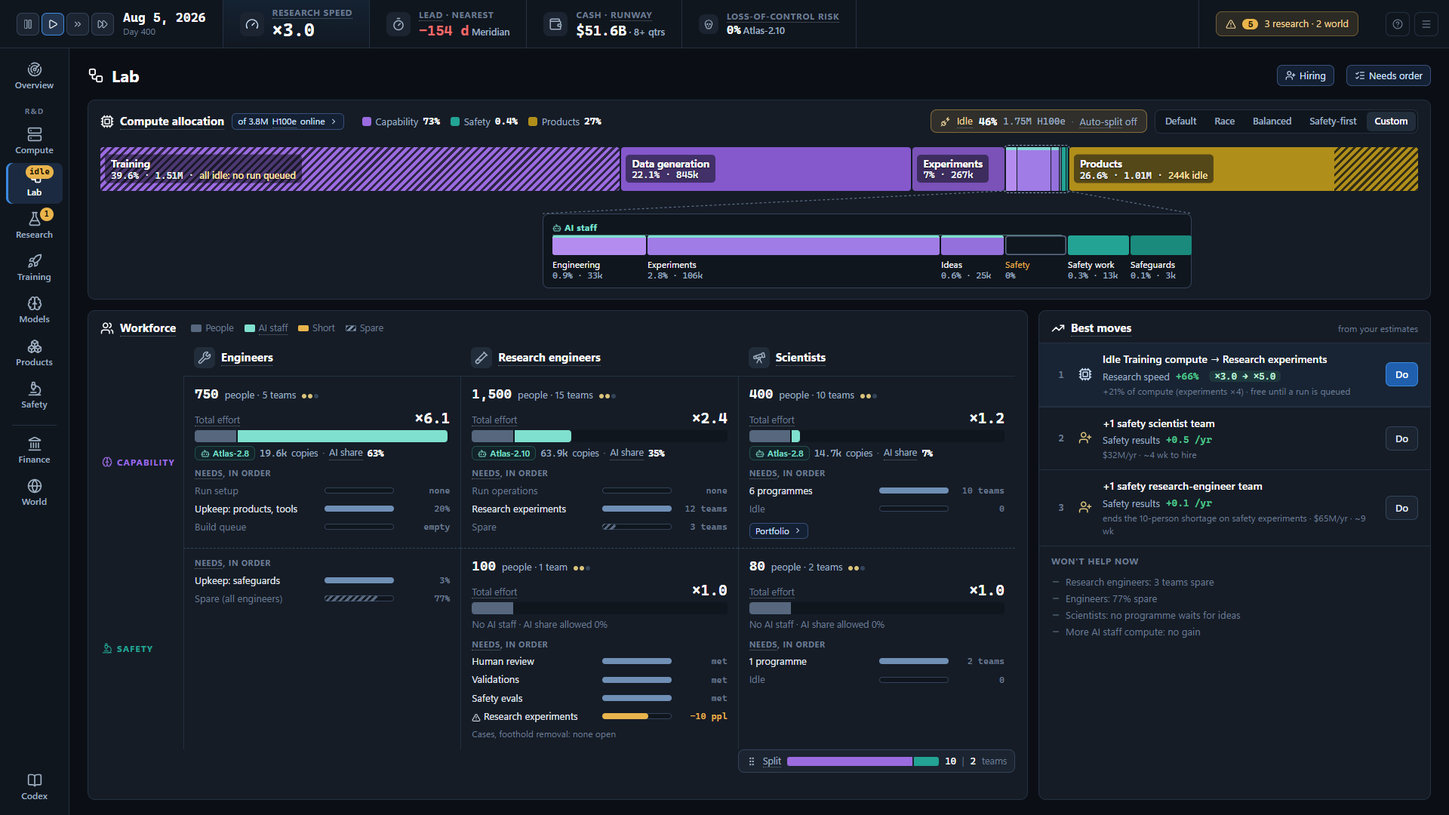
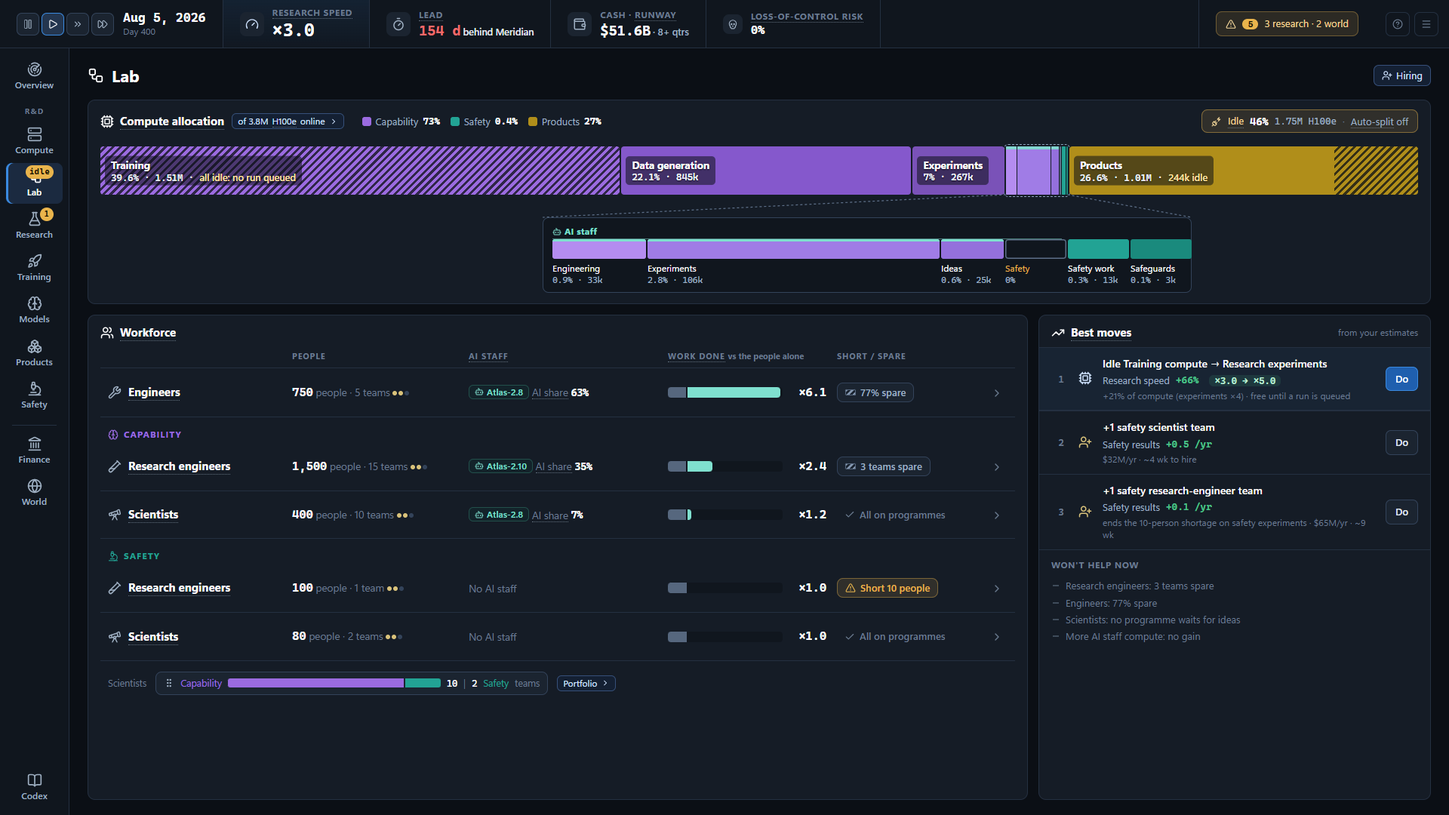
UI-MOCK: LAB and Portfolio revised (one line per role with needs on click, work done vs people alone, lead as days behind, presets dropped, effects where they land as × effective compute on the next model, plain returns phrase, VOCAB-safe programme names)

diff --git a/design/ux/mockups/rd/lab.js b/design/ux/mockups/rd/lab.js
@@ -35,7 +35,6 @@
     <h1>${ic('workflow', 's22')} Lab</h1>
     <div class="sp"></div>
     <span class="link">${ic('user-plus', 's14')} Hiring</span>
-    <span class="link">${ic('list-checks', 's14')} Needs order</span>
   </div>
 
   <div class="card alloc">
@@ -45,7 +44,6 @@
       <span class="glegend">${['cap', 'saf', 'prod'].map((g) => `<span><i style="background:${GROUP[g][1]}"></i>${GROUP[g][0]} <b class="n">${gsum[g] < 1 ? gsum[g].toFixed(1) : Math.round(gsum[g])}%</b></span>`).join('')}</span>
       <div class="sp"></div>
       <div class="idlechip">${ic('plug-zap', 's14')} <u>Idle</u> <b>${L.alloc.idlePct}%</b> <span class="n" style="color:var(--text-2)">${L.alloc.idle} H100e</span><span class="t3">·</span><span style="color:var(--text-2)"><u>Auto-split</u> ${L.alloc.autoSplit}</span></div>
-      <div class="presets">${['Default', 'Race', 'Balanced', 'Safety-first', 'Custom'].map((p) => `<span class="p ${p === L.alloc.preset ? 'on' : ''}">${p}</span>`).join('')}</div>
     </div>
     <div class="barwrap">
       <div class="bar" id="bar">${barHtml}</div>
@@ -61,12 +59,6 @@
   <div class="lower">
     <div class="card board">
       <div class="hd"><span class="ttl">${ic('users', 's18')} <u>Workforce</u></span>
-        <span class="row t3" style="font-size:12.5px;gap:14px;margin-left:10px">
-          <span class="row" style="gap:5px"><span style="width:14px;height:10px;border-radius:2px;background:var(--human)"></span>People</span>
-          <span class="row" style="gap:5px"><span style="width:14px;height:10px;border-radius:2px;background:var(--ai)"></span><u>AI staff</u></span>
-          <span class="row" style="gap:5px"><span style="width:14px;height:8px;border-radius:2px;background:var(--warn)"></span>Short</span>
-          <span class="row" style="gap:5px"><span class="sparesw"></span>Spare</span>
-        </span>
         <div class="sp"></div>
       </div>
       <div class="wgrid" id="wgrid"></div>
@@ -104,32 +96,37 @@
   ln.setAttribute('width', W); ln.setAttribute('height', y2 + 2);
   ln.innerHTML = `<path d="M${cr.left - bw.left} ${y1} L${lr.left - bw.left} ${y2} M${cr.right - bw.left} ${y1} L${lr.right - bw.left} ${y2}" stroke="#5d6f88" stroke-width="1.2" stroke-dasharray="3 3" fill="none"/>`;
 
-  // workforce grid
+  // workforce: one line per role (people · AI staff · work done · short / spare); the needs list opens on click (#needs)
   const Wk = L.work;
-  const effort = (c) => `
-    <div class="effort">
-      <div class="top2"><span><u>Total effort</u></span><b>×${c.effort}</b></div>
-      <div class="ebar"><div class="hp" style="flex:1 0 0"></div>${c.effortNum > 1 ? `<div class="ap" style="flex:${c.effortNum - 1} 0 0"></div>` : ''}<div style="flex:${Wk.maxEffort - c.effortNum} 0 0"></div></div>
-      <div class="aistaff">${c.ai ? `<span class="mchip">${ic('bot', 's12')} ${c.ai.model}</span><span class="n">${c.ai.copies}</span> copies <span class="t3">·</span> <u>AI share</u> <b class="n w">${c.ai.share}</b>` : `<span class="t3">No AI staff · ${c.aiNote}</span>`}</div>
-    </div>`;
+  const ST = Wk.status;
   const needs = (c) => `
-    <div class="needs"><div class="cap"><u>Needs</u>, in order</div>
+    <div class="needs">
     ${c.needs.map((n) => `<div class="nd ${n.short ? 'short' : ''} ${n.spare ? 'spare' : ''} ${!n.fill && !n.spare ? 'nil' : ''}"><span class="nm">${n.short ? ic('triangle-alert', 's12') + ' ' : ''}${n.name}</span><span class="gb"><i style="width:${Math.min(100, n.fill * 100)}%"></i></span><span class="st">${n.st}</span></div>`).join('')}
     ${c.quiet ? `<div class="t3" style="font-size:12px">${c.quiet}</div>` : ''}</div>`;
-  const people = (c) => `<div class="ppl"><b>${c.people}</b> people · ${c.teams} team${c.teams > 1 ? 's' : ''} ${qp(c.q)}</div>`;
-  const cell = (c, pos, cls, extra = '') => `<div class="cell ${cls}" style="${pos}">${people(c)}${effort(c)}${needs(c)}${extra}</div>`;
-  const col = (icon, name, pos) => `<div class="colh" style="${pos}"><span class="ri">${ic(icon, 's18')}</span><u>${name}</u></div>`;
+  const open = location.hash === '#needs' ? 'reSaf' : null;
+  const row = (key, icon, name, c) => {
+    const st = ST[key];
+    return `<div class="wr ${open === key ? 'open' : ''}">
+      <span class="rn">${ic(icon, 's18')}<u>${name}</u></span>
+      <span class="pp"><b class="n">${c.people}</b> <span class="t3">people · ${c.teams} team${c.teams > 1 ? 's' : ''}</span> ${qp(c.q)}</span>
+      <span class="ais">${c.ai ? `<span class="mchip">${ic('bot', 's12')} ${c.ai.model}</span> <span class="t3"><u>AI share</u></span> <b class="n w">${c.ai.share}</b>` : `<span class="t3">No AI staff</span>`}</span>
+      <span class="wd"><span class="ebar"><span class="hp" style="flex:1 0 0"></span>${c.effortNum > 1 ? `<span class="ap" style="flex:${c.effortNum - 1} 0 0"></span>` : ''}<span style="flex:${Wk.maxEffort - c.effortNum} 0 0"></span></span><b class="n">×${c.effort}</b></span>
+      <span class="stc ${st[0]}">${st[0] === 'short' ? ic('triangle-alert', 's14') : st[0] === 'spare' ? '<i class="sparesw"></i>' : ic('check', 's14')} ${st[1]}</span>
+      <span class="t3">${ic(open === key ? 'chevron-down' : 'chevron-right', 's16')}</span>
+    </div>
+    ${open === key ? `<div class="wopen"><div class="row" style="margin-bottom:8px"><span class="cap"><u>Needs</u>, in priority order</span><span class="t3" style="font-size:12px">staff go to the top first</span><div class="sp"></div><span class="link sm">${ic('list-checks', 's12')} Change order</span></div>${needs(c)}<div class="row" style="margin-top:10px;gap:8px"><span class="t3" style="font-size:12.5px">${c.aiNote}</span><span class="link sm">AI staff ${ic('chevron-right', 's12')}</span><span class="link sm">Hiring ${ic('chevron-right', 's12')}</span></div></div>` : ''}`;
+  };
+  const engAll = { ...Wk.eng, needs: [...Wk.eng.needs.slice(0, 2), Wk.engSaf.needs[0], Wk.eng.needs[2], Wk.engSaf.needs[1]] };
   document.getElementById('wgrid').innerHTML = `
-    ${col('wrench', 'Engineers', 'grid-area:1/2')}${col('test-tube-diagonal', 'Research engineers', 'grid-area:1/3')}${col('telescope', 'Scientists', 'grid-area:1/4')}
-    <div class="band" style="grid-area:2/1;color:var(--cap)"><span class="bt">${ic('brain', 's14')} Capability</span></div>
-    <div class="band" style="grid-area:3/1;color:var(--saf)"><span class="bt">${ic('microscope', 's14')} Safety</span></div>
-    ${cell(Wk.eng, 'grid-area:2/2', 'capb')}
-    <div class="cell safb" style="grid-area:3/2">${needs(Wk.engSaf)}</div>
-    ${cell(Wk.reCap, 'grid-area:2/3', 'capb')}
-    ${cell(Wk.sciCap, 'grid-area:2/4', 'capb', `<span class="link sm" style="align-self:flex-start">${Wk.sciCap.link} ${ic('chevron-right', 's12')}</span>`)}
-    ${cell(Wk.reSaf, 'grid-area:3/3', 'safb')}
-    ${cell(Wk.sciSaf, 'grid-area:3/4', 'safb')}
-    <div class="split" style="grid-area:4/4">${ic('grip-vertical', 's14')}<span><u>Split</u></span><div class="hbar"><div style="flex:${Wk.split[0]} 0 0;background:var(--cap);border-radius:3px 0 0 3px"></div><div style="flex:${Wk.split[1]} 0 0;background:var(--saf);border-radius:0 3px 3px 0"></div></div><span class="n w">${Wk.split[0]}</span><span class="t3">|</span><span class="n w">${Wk.split[1]}</span><span class="t3">teams</span></div>
+    <div class="wh"><span></span><span>People</span><span><u>AI staff</u></span><span><u>Work done</u> <span class="t3" style="text-transform:none;letter-spacing:0">vs the people alone</span></span><span>Short / spare</span><span></span></div>
+    ${row('eng', 'wrench', 'Engineers', engAll)}
+    <div class="wg" style="color:var(--cap)">${ic('brain', 's14')} Capability</div>
+    ${row('reCap', 'test-tube-diagonal', 'Research engineers', Wk.reCap)}
+    ${row('sciCap', 'telescope', 'Scientists', Wk.sciCap)}
+    <div class="wg" style="color:var(--saf)">${ic('microscope', 's14')} Safety</div>
+    ${row('reSaf', 'test-tube-diagonal', 'Research engineers', Wk.reSaf)}
+    ${row('sciSaf', 'telescope', 'Scientists', Wk.sciSaf)}
+    <div class="wfoot"><span class="t3">Scientists</span><div class="split">${ic('grip-vertical', 's14')}<span style="color:var(--cap)">Capability</span><div class="hbar"><div style="flex:${Wk.split[0]} 0 0;background:var(--cap);border-radius:3px 0 0 3px"></div><div style="flex:${Wk.split[1]} 0 0;background:var(--saf);border-radius:0 3px 3px 0"></div></div><span class="n w">${Wk.split[0]}</span><span class="t3">|</span><span class="n w">${Wk.split[1]}</span><span style="color:var(--saf)">Safety</span><span class="t3">teams</span></div><span class="link sm">Portfolio ${ic('chevron-right', 's12')}</span></div>
   `;
 
   if (location.hash === '#tip') {

diff --git a/design/ux/mockups/rd/res-data.js b/design/ux/mockups/rd/res-data.js
@@ -1,8 +1,9 @@
 // RESEARCH › Portfolio data, day-400 fixture (data400.json C.*). Provenance: DATA.md.
+// Capability effects are shown where they land: the next model's effective compute in that know-how area (× = 10^OOM).
 (function () {
   const u = (t) => `<u>${t}</u>`;
-  const eff = (v, area, lo, hi) => `<b class="n">+${v}%</b> ${u(area)} <span class="rg">(${lo}–${hi}%)</span>`;
-  const ret = (x) => `${u('returns falling')} <b>×${x}</b>`;
+  const lands = (where, x, what) => `<span class="t3">${where}</span> <b class="n">×${x}</b> ${u(what)}`;
+  const ret = (w) => `<span class="t3">results now</span> <b>~${w}</b> <span class="t3">of the first</span>`;
   const out = (w) => `<span class="olk ${w}">${w}</span>`;
   window.D.res = {
     limited: [{ cls: 'on', word: 'Limits most' }, { cls: 'mid', word: 'Spare teams' }, { cls: '', word: 'Enough' }, { cls: '', word: 'Not limiting' }],
@@ -10,17 +11,17 @@
     capSub: '10 teams · 6 programmes',
     safSub: '2 teams · 1 of 18 programmes staffed',
     cards: [
-      { side: 'cap', name: 'Scaling recipes', icon: 'layers', field: 'Pretraining', kind: 'ongoing', out: 'capability', track: 'programme', stage: 2, prog: 0.03, eta: 10, eff: eff('1.3', 'pretraining recipe', '0.7', '1.9'), odds: ret('0.75'), teams: 2, wanted: 2 },
-      { side: 'cap', name: 'Environments & rewards', icon: 'wand-sparkles', field: 'Post-training', kind: 'ongoing', out: 'capability', track: 'programme', stage: 2, prog: 0.18, eta: 8, eff: eff('0.9', 'post-training ceiling', '0.7', '1.2'), odds: ret('0.73'), teams: 3, wanted: 3 },
-      { side: 'cap', name: 'Data filtering & mixing', icon: 'layers', field: 'Pretraining', kind: 'ongoing', out: 'capability', track: 'programme', stage: 2, prog: 0.29, eta: 7, eff: eff('1.3', 'pretraining recipe', '0.7', '1.9'), odds: ret('0.72'), teams: 1, wanted: 1 },
-      { side: 'cap', name: 'Optimizer & architecture tweaks', icon: 'layers', field: 'Pretraining', kind: 'ongoing', out: 'capability', track: 'programme', stage: 1, prog: 0.54, eta: 14, eff: eff('3.7', 'pretraining recipe', '0.7', '6.7'), odds: ret('0.87'), teams: 1, wanted: 1, sel: true },
-      { side: 'cap', name: 'RL algorithms', icon: 'wand-sparkles', field: 'Post-training', kind: 'ongoing', out: 'capability', track: 'programme', stage: 2, prog: 0.72, eta: 3, eff: eff('1.6', 'post-training method', '1.2', '2.1'), odds: ret('0.51'), teams: 2, wanted: 2 },
-      { side: 'cap', name: 'Inference efficiency', icon: 'circuit-board', field: 'Systems', kind: 'ongoing', out: 'capability', track: 'programme', stage: 2, prog: 0.63, eta: 4, eff: eff('3.8', 'serving efficiency', '2.6', '5.2'), odds: ret('0.43'), teams: 1, wanted: 1 },
-      { side: 'cap', name: 'Multi-agent orchestration', icon: 'circuit-board', field: 'Systems', kind: 'one-off', out: 'capability', track: 'project', failed: `Failed in test · retry at lower odds: ${u('chance it works')} <b class="n w">24%</b>`, teams: 0, wanted: 3 },
-      { side: 'saf', name: 'Applied interp', icon: 'scan-search', field: 'Interpretability', kind: 'ongoing', out: 'see', track: 'safety', stage: 2, prog: 0.02, eta: 47, eff: `<b>new instrument</b>: Deception probe`, odds: `${u('outlook')} ${out('Mixed')}`, teams: 2, wanted: 2, lim: 'research engineers' },
-      { side: 'saf', name: 'Model organisms & evals', icon: 'list-checks', field: 'Evals & control', kind: 'ongoing', out: 'see', track: 'safety', stage: -1, prog: 0, eta: 0, eff: `<b>new instrument</b>: Auditing agents`, odds: `${u('outlook')} ${out('Promising')}`, teams: 0, wanted: 1, dim: true },
-      { side: 'saf', name: 'AI control', icon: 'list-checks', field: 'Evals & control', kind: 'ongoing', out: 'stop', track: 'safety', stage: -1, prog: 0, eta: 0, eff: `<b>new safeguard</b>: Comms lockdown`, odds: `${u('outlook')} ${out('Promising')}`, teams: 0, wanted: 1, dim: true },
-      { side: 'saf', name: 'CoT monitorability', icon: 'list-checks', field: 'Evals & control', kind: 'ongoing', out: 'see', track: 'safety', stage: -1, prog: 0, eta: 0, eff: `<b>new instrument</b>: Monitorability suite`, odds: `${u('outlook')} ${out('Promising')}`, teams: 0, wanted: 1, dim: true },
+      { side: 'cap', name: 'Scaling recipes', icon: 'layers', field: 'Pretraining', kind: 'ongoing', out: 'capability', track: 'programme', stage: 2, prog: 0.03, eta: 10, eff: lands('next base model', '1.013', 'pretraining compute'), odds: '', ret: ret('¾'), teams: 2, wanted: 2 },
+      { side: 'cap', name: 'Environments & rewards', icon: 'wand-sparkles', field: 'Post-training', kind: 'ongoing', out: 'capability', track: 'programme', stage: 2, prog: 0.18, eta: 8, eff: lands('next post-training', '1.009', 'post-training ceiling'), odds: '', ret: ret('¾'), teams: 3, wanted: 3 },
+      { side: 'cap', name: 'Data filtering & mixing', icon: 'layers', field: 'Pretraining', kind: 'ongoing', out: 'capability', track: 'programme', stage: 2, prog: 0.29, eta: 7, eff: lands('next base model', '1.013', 'pretraining compute'), odds: '', ret: ret('¾'), teams: 1, wanted: 1 },
+      { side: 'cap', name: 'Optimizer & architecture tweaks', icon: 'layers', field: 'Pretraining', kind: 'ongoing', out: 'capability', track: 'programme', stage: 1, prog: 0.54, eta: 14, eff: lands('next base model', '1.037', 'pretraining compute'), odds: '', ret: ret('⅞'), teams: 1, wanted: 1, sel: true },
+      { side: 'cap', name: 'Post-training algorithms', icon: 'wand-sparkles', field: 'Post-training', kind: 'ongoing', out: 'capability', track: 'programme', stage: 2, prog: 0.72, eta: 3, eff: lands('next post-training', '1.016', 'post-training compute'), odds: '', ret: ret('½'), teams: 2, wanted: 2 },
+      { side: 'cap', name: 'Faster serving', icon: 'circuit-board', field: 'Systems', kind: 'ongoing', out: 'capability', track: 'programme', stage: 2, prog: 0.63, eta: 4, eff: lands('serving', '1.038', 'work per chip'), odds: '', ret: ret('⅖'), teams: 1, wanted: 1 },
+      { side: 'cap', name: 'Coordinating many copies', icon: 'circuit-board', field: 'Systems', kind: 'one-off', out: 'capability', track: 'project', failed: `Failed in test · retry at lower odds: ${u('chance it works')} <b class="n w">24%</b>`, teams: 0, wanted: 3 },
+      { side: 'saf', name: 'Applied interpretability', icon: 'scan-search', field: 'Interpretability', kind: 'ongoing', out: 'see', track: 'safety', stage: 2, prog: 0.02, eta: 47, eff: `<span class="t3">new</span> ${u('instrument')}: <b>Deception probe</b>`, odds: `${u('outlook')} ${out('Mixed')}`, teams: 2, wanted: 2, lim: 'research engineers' },
+      { side: 'saf', name: 'Model organisms & evals', icon: 'list-checks', field: 'Evals & control', kind: 'ongoing', out: 'see', track: 'safety', stage: -1, prog: 0, eta: 0, eff: `<span class="t3">new</span> ${u('instrument')}: <b>AI auditors</b>`, odds: `${u('outlook')} ${out('Promising')}`, teams: 0, wanted: 1, dim: true },
+      { side: 'saf', name: 'Control protocols', icon: 'list-checks', field: 'Evals & control', kind: 'ongoing', out: 'stop', track: 'safety', stage: -1, prog: 0, eta: 0, eff: `<span class="t3">new</span> ${u('safeguard')}: <b>Comms lockdown</b>`, odds: `${u('outlook')} ${out('Promising')}`, teams: 0, wanted: 1, dim: true },
+      { side: 'saf', name: 'Readable reasoning', icon: 'list-checks', field: 'Evals & control', kind: 'ongoing', out: 'see', track: 'safety', stage: -1, prog: 0, eta: 0, eff: `<span class="t3">new</span> ${u('instrument')}: <b>Reasoning-readability evals</b>`, odds: `${u('outlook')} ${out('Promising')}`, teams: 0, wanted: 1, dim: true },
     ],
     safMore: { n: 14, mixed: 8, struggling: 6 },
   };

diff --git a/design/ux/mockups/rd/drawer.js b/design/ux/mockups/rd/drawer.js
@@ -5,17 +5,17 @@
   const X = (v) => 16 + (v / 8) * 560;
   const rangeSvg = `<svg width="600" height="58" style="display:block;margin-top:2px">
     <line x1="16" y1="26" x2="576" y2="26" stroke="#33435a" stroke-width="2"/>
-    ${[0, 2, 4, 6, 8].map((t) => `<line x1="${X(t)}" y1="22" x2="${X(t)}" y2="30" stroke="#4a5b72"/><text x="${X(t)}" y="48" fill="#6b7c91" font-size="11.5" font-family="Cascadia Mono, Consolas, monospace" text-anchor="middle">${t}%</text>`).join('')}
+    ${[0, 2, 4, 6, 8].map((t) => `<line x1="${X(t)}" y1="22" x2="${X(t)}" y2="30" stroke="#4a5b72"/><text x="${X(t)}" y="48" fill="#6b7c91" font-size="11.5" font-family="Cascadia Mono, Consolas, monospace" text-anchor="middle">×${(1 + t / 100).toFixed(2)}</text>`).join('')}
     <rect x="${X(0.69)}" y="17" width="${X(6.66) - X(0.69)}" height="18" rx="5" fill="rgba(155,107,224,.28)" stroke="#9b6be0"/>
     <line x1="${X(3.7)}" y1="11" x2="${X(3.7)}" y2="41" stroke="#fff" stroke-width="2.5"/>
-    <text x="${X(3.7) + 7}" y="12" fill="#fff" font-size="12.5" font-weight="650" font-family="Segoe UI, sans-serif">+3.7% best guess</text>
+    <text x="${X(3.7) + 7}" y="12" fill="#fff" font-size="12.5" font-weight="650" font-family="Segoe UI, sans-serif">×1.037 best guess</text>
     <text x="${X(0.69)}" y="12" fill="#9fb0c3" font-size="11.5" font-family="Segoe UI, sans-serif">likely</text>
   </svg>`;
-  const results = `<svg width="230" height="70" style="display:block">
+  const results = `<svg width="270" height="70" style="display:block">
     <rect x="0" y="10" width="56" height="44" rx="3" fill="#9b6be0"/><text x="28" y="66" fill="#9fb0c3" font-size="11" text-anchor="middle" font-family="Segoe UI, sans-serif">first</text>
     <rect x="72" y="${10 + 44 * 0.13}" width="56" height="${44 * 0.87}" rx="3" fill="#7a52b8"/><text x="100" y="66" fill="#9fb0c3" font-size="11" text-anchor="middle" font-family="Segoe UI, sans-serif">next</text>
-    <text x="146" y="30" fill="#fff" font-size="15" font-weight="650" font-family="Cascadia Mono, Consolas, monospace">×0.87</text>
-    <text x="146" y="48" fill="#9fb0c3" font-size="11.5" font-family="Segoe UI, sans-serif">of the first</text>
+    <text x="146" y="30" fill="#fff" font-size="18" font-weight="650" font-family="Segoe UI, sans-serif">~⅞</text>
+    <text x="146" y="48" fill="#9fb0c3" font-size="11.5" font-family="Segoe UI, sans-serif">the size of the first</text>
   </svg>`;
   window.D.res.drawer = `
     <div class="row" style="gap:10px">
@@ -38,7 +38,7 @@
       <div class="cap">The idea under test</div>
       <div style="font-size:14.5px;color:#fff">A mid-sized change to the training recipe. It looks good in small tests but has not been tried at scale, and may shrink there.</div>
       <div class="kv" style="margin-top:2px">
-        <span class="k"><u>Expected effect</u></span><span><b class="n w">+3.7%</b> <u>pretraining recipe</u> <span class="t3 n">(0.7–6.7%)</span> · fairly unsure</span>
+        <span class="k"><u>Expected effect</u></span><span>next base model <b class="n w">×1.037</b> <u>pretraining compute</u> <span class="t3 n">(×1.007–×1.067)</span> · fairly unsure</span>
       </div>
       ${rangeSvg}
       <div class="kv">
@@ -52,7 +52,7 @@
       <div class="row" style="gap:22px;align-items:center">
         ${results}
         <div class="kv" style="grid-template-columns:130px 1fr;flex:1">
-          <span class="k">Built in</span><span><b class="n w">4</b> results · <b class="n w">+13%</b> pretraining recipe</span>
+          <span class="k">Built in</span><span><b class="n w">4</b> results · <b class="n w">×1.13</b> pretraining compute</span>
           <span class="k">Dropped</span><span><b class="n w">4</b> ideas</span>
           <span class="k">In this test</span><span><b class="n w">3</b> ideas</span>
         </div>

diff --git a/design/ux/mockups/rd/lab.html b/design/ux/mockups/rd/lab.html
@@ -75,7 +75,7 @@
 .mv .cost { font-size: 12px; color: var(--text-3); margin-top: 2px; }
 .mv.top { background: rgba(58,138,224,.07); }
 
-.bar { height: 58px; }
+.bar { height: 64px; }
 .bar .s .lbl2 { position: absolute; left: 10px; top: 50%; transform: translateY(-50%); display: flex; flex-direction: column; line-height: 1.25; white-space: nowrap; pointer-events: none; text-shadow: 0 1px 2px rgba(0,0,0,.7); }
 .bar .s .lbl2 b { color: #fff; font-size: 13.5px; font-weight: 650; }
 .bar .s .lbl2 span { color: #eef2f8; font: 600 12.5px var(--mono); }
@@ -106,12 +106,34 @@
 .lgrp { height: 18px; font-size: 11.5px; font-weight: 650; color: var(--ai); letter-spacing: .04em; }
 .lgrp div { border-bottom: 1.5px solid rgba(127,224,207,.5); padding-bottom: 1px; margin-bottom: 4px; display: flex; gap: 4px; align-items: center; }
 .mv .eff .pre { margin-left: 6px; padding: 0 7px; border-radius: 6px; background: rgba(76,195,138,.12); font: 600 12.5px var(--mono); color: #bff0d6; }
-.nd { grid-template-columns: minmax(0,1fr) 92px 66px !important; }
+.nd { grid-template-columns: minmax(0,1fr) 120px 80px !important; }
 .wont { margin-top: 0 !important; }
 .moves .fill { flex: 1; }
 .bar .s .lbl2 { background: rgba(11,15,21,.55); padding: 3px 8px; border-radius: 5px; left: 6px; }
 .mchip2 { font-size: 11.5px; color: var(--ai); margin-left: 4px; }
 .tip .brk > span:nth-child(odd) { display: flex; align-items: center; gap: 6px; }
+/* workforce rows (rev 2) */
+.wgrid { display: flex !important; flex-direction: column; margin: 8px 16px 14px !important; gap: 0; }
+.wh, .wr { display: grid; grid-template-columns: 230px 220px 250px minmax(0,1fr) 190px 22px; gap: 14px; align-items: center; }
+.wh { font-size: 11px; font-weight: 650; letter-spacing: .08em; text-transform: uppercase; color: var(--text-3); padding: 4px 10px 8px; border-bottom: 1px solid var(--line); }
+.wr { padding: 19px 10px; border-bottom: 1px solid var(--line); font-size: 13.5px; }
+.wr.open { background: rgba(58,138,224,.08); border: 1px solid var(--you); border-bottom: 0; border-radius: 8px 8px 0 0; }
+.wr .rn { display: flex; align-items: center; gap: 9px; font-size: 15px; font-weight: 650; color: #fff; }
+.wr .rn svg { color: var(--text-2); }
+.wr .pp b { font-size: 16px; color: #fff; }
+.wr .wd { display: flex; align-items: center; gap: 10px; }
+.wr .wd .ebar { flex: 1; height: 14px; display: flex; }
+.wr .wd b { font-size: 16px; color: #fff; width: 48px; text-align: right; }
+.stc { display: inline-flex; align-items: center; gap: 6px; padding: 3px 10px; border-radius: 8px; font-size: 13px; font-weight: 600; justify-self: start; white-space: nowrap; }
+.stc.short { color: var(--warn); background: var(--warn-bg); border: 1px solid rgba(233,180,76,.4); }
+.stc.spare { color: var(--text-2); background: var(--panel-2); border: 1px solid var(--line-2); }
+.stc.ok { color: var(--text-3); }
+.stc .sparesw { display: inline-block; }
+.wg { display: flex; align-items: center; gap: 7px; font-size: 12px; font-weight: 700; letter-spacing: .08em; text-transform: uppercase; padding: 14px 10px 2px; }
+.wopen { border: 1px solid var(--you); border-top: 1px dashed #36507a; border-radius: 0 0 8px 8px; background: rgba(58,138,224,.05); padding: 12px 16px 14px 48px; margin-bottom: 4px; }
+.wopen .needs { max-width: 620px; }
+.wfoot { display: flex; align-items: center; gap: 12px; padding: 14px 10px 0; font-size: 12.5px; }
+.wfoot .split { width: 520px; }
 </style></head>
 <body data-tab="lab">
 <!--ICONS-->

diff --git a/design/ux/mockups/rd/data.js b/design/ux/mockups/rd/data.js
@@ -1,7 +1,7 @@
 // Day-400 RefBot fixture (scripts/v2/fixtures/day400.json), read by _data.ts → data400.json. Provenance: DATA.md.
 window.SHELL = {
   date: 'Aug 5, 2026', day: 400, speed: '3.0',
-  lead: '−154 d', leadColor: 'var(--bad)', rival: 'Meridian', cash: '$51.6B', runway: '8+ qtrs', loc: '0%', locModel: 'Atlas-2.10',
+  lead: '154 d', leadWord: 'behind', leadColor: 'var(--bad)', rival: 'Meridian', cash: '$51.6B', runway: '8+ qtrs', loc: '0%', locModel: '',
   alertCount: 5, alertText: '3 research · 2 world',
   badges: { lab: ['idle', 'warn'], research: ['1', 'warn'], training: null, safety: null },
 };
@@ -32,10 +32,14 @@ window.D = {
       sciCap: { people: 400, teams: 10, q: 2, effort: '1.2', effortNum: 1.19, ai: { model: 'Atlas-2.8', copies: '14.7k', share: '7%' },
         needs: [{ name: '6 programmes', fill: 1, st: '10 teams' }, { name: 'Idle', fill: 0, st: '0', spare: true }], link: 'Portfolio' },
       reSaf: { people: 100, teams: 1, q: 2, effort: '1.0', effortNum: 1, ai: null, aiNote: 'AI share allowed 0%',
-        needs: [{ name: 'Human review', fill: 1, st: 'met' }, { name: 'Validations', fill: 1, st: 'met' }, { name: 'Safety evals', fill: 1, st: 'met' }, { name: 'Research experiments', fill: 0.67, st: '−10 ppl', short: true }], quiet: 'Cases, foothold removal: none open' },
+        needs: [{ name: 'Human review', fill: 1, st: '19 people' }, { name: 'Validations', fill: 1, st: '40 people' }, { name: 'Safety evals', fill: 1, st: '20 people' }, { name: 'Research experiments', fill: 0.67, st: '21 of 31', short: true }], quiet: 'Cases, foothold removal: none open' },
       sciSaf: { people: 80, teams: 2, q: 2, effort: '1.0', effortNum: 1, ai: null, aiNote: 'AI share allowed 0%',
         needs: [{ name: '1 programme', fill: 1, st: '2 teams' }, { name: 'Idle', fill: 0, st: '0', spare: true }] },
       split: [10, 2],
+      status: {
+        eng: ['spare', '77% spare'], reCap: ['spare', '3 teams spare'], sciCap: ['ok', 'All on programmes'],
+        reSaf: ['short', 'Short 10 people'], sciSaf: ['ok', 'All on programmes'],
+      },
     },
     moves: [
       { kind: 'compute', what: 'Idle Training compute → Research experiments', target: 'Research speed', eff: '+66%', pre: '×3.0 → ×5.0', w: 1, cost: '+21% of compute (experiments ×4) · free until a run is queued' },

diff --git a/design/ux/mockups/rd/tip.js b/design/ux/mockups/rd/tip.js
@@ -14,10 +14,10 @@
       <div class="def">How fast your lab turns compute and people into research results, against the leading lab in Jul 2025.</div>
       <div class="cap" style="margin-bottom:5px">What it runs on</div>
       <div class="brk">
-        <span>${ic('cpu', 's14')} <u>Research compute</u></span><span class="n">398k H100e</span>
+        <span>${ic('cpu', 's14')} <u>Compute on research</u></span><span class="n">398k H100e</span>
         <span class="t3" style="padding-left:22px">Experiments 267k · AI staff 131k</span><span></span>
-        <span>${ic('test-tube-diagonal', 's14')} Research engineers <span class="t3">15 teams</span></span><span class="n">×2.4 with AI</span>
-        <span>${ic('telescope', 's14')} Scientists <span class="t3">10 teams</span></span><span class="n">×1.2 with AI</span>
+        <span>${ic('test-tube-diagonal', 's14')} Research engineers <span class="t3">15 teams</span></span><span class="n">work ×2.4</span>
+        <span>${ic('telescope', 's14')} Scientists <span class="t3">10 teams</span></span><span class="n">work ×1.2</span>
       </div>
       <div class="cap" style="margin:11px 0 5px">AI staff's part</div>
       <div class="row" style="gap:14px;align-items:flex-end">

diff --git a/design/ux/mockups/rd/portfolio.js b/design/ux/mockups/rd/portfolio.js
@@ -19,6 +19,7 @@
         ${c.out !== 'capability' ? `<span class="otag ${c.out}">${c.out}</span>` : ''}
         <span class="fld">${c.field}</span>
         <div class="sp"></div>
+        ${c.ret ? `<span class="retp">${c.ret}</span>` : ''}
         ${c.lim ? `<span class="plim">${ic('triangle-alert', 's12')} limited by ${c.lim}</span>` : ''}
         <span class="teams">${c.teams ? pips(c.teams, c.wanted) + ` ${c.teams} team${c.teams > 1 ? 's' : ''}` : `${pips(0, c.wanted || 1)} <span class="${c.dim ? 'warn' : ''}">no team</span>`}</span>
       </div>

diff --git a/design/ux/mockups/rd/shell.js b/design/ux/mockups/rd/shell.js
@@ -21,7 +21,7 @@
     </div>
     <div class="stat">
       <div class="ic">${ic('timer', 's18')}</div>
-      <div><div class="l"><u>Lead</u> · nearest</div><div class="v" style="color:${S.leadColor}">${S.lead}<span class="u">${S.rival}</span></div></div>
+      <div><div class="l"><u>Lead</u></div><div class="v" style="color:${S.leadColor}">${S.lead}<span class="u" style="color:var(--text)">${S.leadWord} ${S.rival}</span></div></div>
     </div>
     <div class="stat">
       <div class="ic">${ic('wallet', 's18')}</div>

diff --git a/design/ux/mockups/rd/portfolio.html b/design/ux/mockups/rd/portfolio.html
@@ -86,6 +86,8 @@
 .seg3 span.on { background: var(--panel-3); color: #fff; }
 .idea { display: grid; grid-template-columns: minmax(0,1fr) 170px 80px 70px; gap: 10px; align-items: center; font-size: 13px; padding: 5px 0; border-top: 1px solid var(--line); }
 .idea:first-of-type { border-top: 0; }
+.retp { font-size: 12.5px; margin-right: 10px; } .retp b { color: #fff; }
+.odds b { font-family: var(--sans); }
 </style></head>
 <body data-tab="research">
 <!--ICONS-->

diff --git a/design/ux/mockups/rd/DATA.md b/design/ux/mockups/rd/DATA.md
@@ -94,3 +94,26 @@ Either the formula floors it or it is a bug. The UI-IA "Unknown" rule (range > 3
   - ⅙ of experiment compute (44k H100e): equal `flopDay` across the six programmes. A per-programme compute readout is **NEW** (today it is derived).
 - Idea choice Balanced: the lab-wide risk policy. A per-programme choice is **NEW** (UI-IA L2).
 - Takes effect "new base model": the know-how area (pretraining recipe).
+
+## Revision 2 (designer feedback)
+
+- **L0:** Lead reads "154 d behind Meridian" (same `nearestRival` value). Loss-of-control risk shows 0% with no model name.
+- **LAB:**
+  - The allocation presets are dropped.
+  - Workforce is one line per role: people · AI staff · work done (the same `multiplier` as before) · short / spare.
+  - Short / spare comes from the needs views above: engineers spare 23.3 of 30.3 = 77%; capability research engineers 3 teams idle; safety research engineers short 10.25 people on research experiments.
+  - The needs list opens on click (`lab-needs.png`). It shows staff used per need: 19 · 40 · 20 · 21 of 31 people (`safReAllocView`).
+- **Portfolio, capability cards:** the effect is shown where it lands, as × effective compute on the next model in that area: × = 10^`belief.mu`. Scaling 0.006 → ×1.013 (it reads ×1.014 at full precision); env 0.004 → ×1.009; opt 0.016 → ×1.037; post-training method 0.007 → ×1.016; serving 0.016 → ×1.038 work per chip. The range moves to the tooltip and the drawer.
+- **Portfolio, returns:** "results now ~¾ of the first" = 1 ÷ `line.harder` rounded to a simple fraction (0.75, 0.73, 0.72 → ¾; 0.87 → ⅞; 0.51 → ½; 0.43 → ⅖).
+- **Display names** (engine name → VOCAB-safe name; **NEW**: the engine and glossary need these names):
+
+  | Engine name | Shown as | Why |
+  |---|---|---|
+  | RL algorithms | Post-training algorithms | no "RL" |
+  | Inference efficiency | Faster serving | "Serving efficiency" is the know-how area |
+  | Multi-agent orchestration | Coordinating many copies | "Agents" = the product only |
+  | Applied interp | Applied interpretability | |
+  | AI control | Control protocols | "control" = the safeguard kind |
+  | CoT monitorability | Readable reasoning | |
+  | Auditing agents | AI auditors | |
+  | Monitorability suite | Reasoning-readability evals | "suite" removed |
